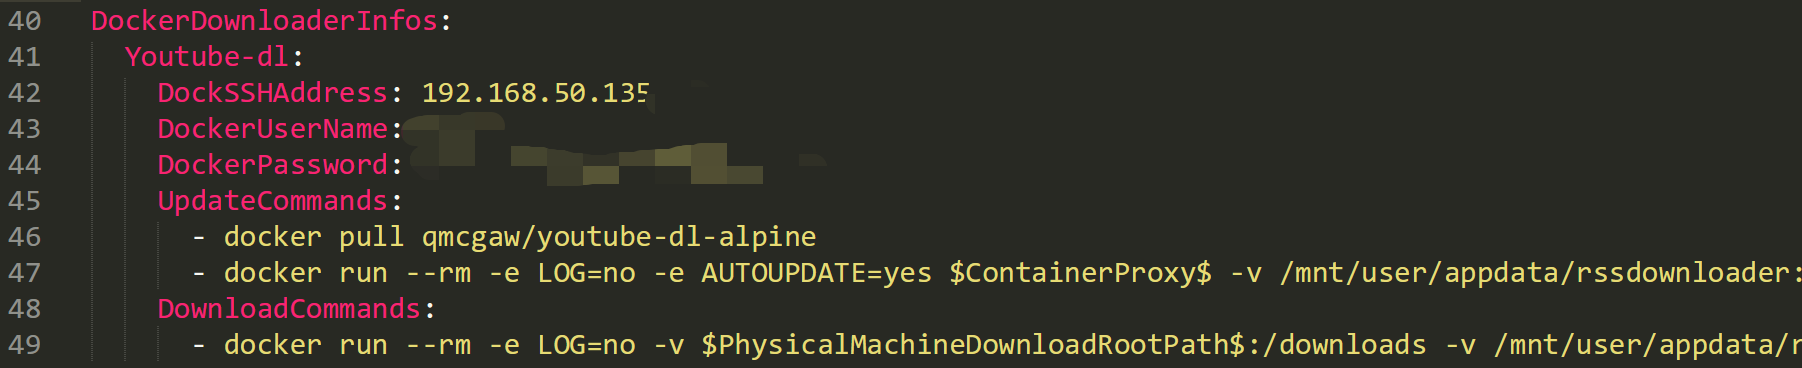
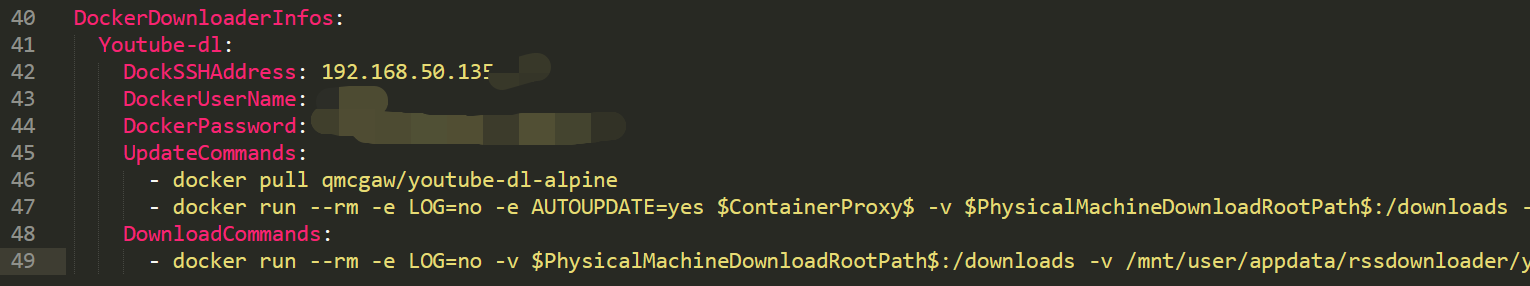
重构，统一、简化配置逻辑

diff --git a/downloadhelper.go b/downloadhelper.go
@@ -11,11 +11,12 @@ import (
 	"os"
 	"path"
 	"regexp"
+	"strconv"
 	"strings"
 	"time"
 )
 
-func UpdateDockerDownloader(configs model.Configs, dockerDownloaderInfo model.DockerDownloaderInfo) (string, error) {
+func UpdateDockerDownloader(configs model.Configs, downloadRoot string, dockerDownloaderInfo model.DockerDownloaderInfo) (string, error) {
 
 	var err error
 	config := &ssh.ClientConfig{
@@ -39,9 +40,11 @@ func UpdateDockerDownloader(configs model.Configs, dockerDownloaderInfo model.Do
 	assemblyCommand := ""
 	for _, oneCommand := range dockerDownloaderInfo.UpdateCommands {
 		// 替换关键信息
-		tmpCommand := oneCommand
+		tmpCommand := strings.ReplaceAll(oneCommand, ConstPhysicalmachinedownloadrootpath, downloadRoot)
 		ContainerProxy := "-e HTTP_PROXY=" + configs.DownloadHttpProxy
 		tmpCommand = strings.ReplaceAll(tmpCommand, ConstContainerProxy, ContainerProxy)
+
+		tmpCommand = replaceOutSideAPPOrFolderLocation(tmpCommand, dockerDownloaderInfo)
 
 		assemblyCommand += tmpCommand
 		assemblyCommand += ";"
@@ -83,13 +86,15 @@ func OneDownload(nowFileName, downloadURL string, downloadInfo model.DownloadInf
 		nowDesPath := path.Join(downloadInfo.DownloadRoot, downloadInfo.FolderName)
 		tmpCommand := strings.ReplaceAll(oneCommand, ConstPhysicalmachinedownloadrootpath, nowDesPath)
 
-		httpAdd := "--proxy=" + downloadInfo.DownloadHttpProxy
+		httpAdd := downloadInfo.DownloadHttpProxy
 		if downloadInfo.UseProxy == false {
 			httpAdd = ""
 		}
 		tmpCommand = strings.ReplaceAll(tmpCommand, ConstHttpadd, httpAdd)
 		tmpCommand = strings.ReplaceAll(tmpCommand, ConstDownloadurl, downloadURL)
 		tmpCommand = strings.ReplaceAll(tmpCommand, ConstNowfilename, nowFileName)
+
+		tmpCommand = replaceOutSideAPPOrFolderLocation(tmpCommand, dockerDownloaderInfo)
 
 		assemblyCommand += tmpCommand
 		assemblyCommand += ";"
@@ -107,9 +112,18 @@ func MainDownloader(configs model.Configs, rssProxyInfos model.RSSProxyInfos, bi
 
 	// 先进行 downloader 的统一更新
 	log.Infoln("Docker Downloader Update Start")
+
+	updateTmpDownloadRoot := ""
+	if rssProxyInfos.DefaultDownloadRoot != "" {
+		updateTmpDownloadRoot = rssProxyInfos.DefaultDownloadRoot
+	}
+	if biliBiliInfos.DefaultDownloadRoot != "" {
+		updateTmpDownloadRoot = biliBiliInfos.DefaultDownloadRoot
+	}
+
 	for _, dockerDownloaderInfo := range dockerDownloaderInfos {
 		log.Infoln("Update Docker Downloader:", dockerDownloaderInfo.Name, "Start")
-		outstring, err := UpdateDockerDownloader(configs, dockerDownloaderInfo)
+		outstring, err := UpdateDockerDownloader(configs, updateTmpDownloadRoot, dockerDownloaderInfo)
 		if err != nil {
 			log.Errorln("UpdateDockerDownloader OutString:", outstring)
 			log.Errorln("UpdateDockerDownloader:", err)
@@ -119,15 +133,17 @@ func MainDownloader(configs model.Configs, rssProxyInfos model.RSSProxyInfos, bi
 	}
 	log.Infoln("Docker Downloader Update End")
 
-	log.Infoln("Download RSS From RSSProxyInfos")
+	log.Infoln("Download RSS From RSSProxyInfos Start")
 	for _, oneRSSInfos := range rssProxyInfos.RSSInfos {
 		DownloadFromOneFeed(configs, oneRSSInfos)
 	}
+	log.Infoln("Download RSS From RSSProxyInfos End")
 
-	log.Infoln("Download RSS From BiliBiliInfos")
+	log.Infoln("Download RSS From BiliBiliInfos Start")
 	for _, oneBiliBiliUserInfos := range biliBiliInfos.BiliBiliUserInfos {
 		DownloadFromOneFeed(configs, oneBiliBiliUserInfos)
 	}
+	log.Infoln("Download RSS From BiliBiliInfos End")
 }
 
 func SelectDownloadInfo(rssInfo interface{}) (model.DownloadInfo, error) {
@@ -252,9 +268,20 @@ func StartDownload(item *gofeed.Item, downloadInfo model.DownloadInfo) {
 	log.Infoln("Download", nowVideoName, "End")
 }
 
+// 替换 OutSideAPPOrFolderLocation
+func replaceOutSideAPPOrFolderLocation(tmpCommand string, dockerDownloaderInfo model.DockerDownloaderInfo) string {
+	for index, one := range dockerDownloaderInfo.OutSideAPPOrFolderLocation {
+		nowReplaceKeyWord := strings.ReplaceAll(ConstOutSideAPPOrFolderLocation, "n$", "n" + strconv.Itoa(index) + "$")
+		tmpCommand = strings.ReplaceAll(tmpCommand, nowReplaceKeyWord, one)
+	}
+
+	return tmpCommand
+}
+
 const ConstYoutudlfileextension = ".part"
 const ConstPhysicalmachinedownloadrootpath = "$PhysicalMachineDownloadRootPath$"
 const ConstHttpadd = "$httpadd$"
 const ConstContainerProxy = "$ContainerProxy$"
 const ConstDownloadurl = "$downloadURL$"
 const ConstNowfilename = "$nowFileName$"
+const ConstOutSideAPPOrFolderLocation = "$OutSideAPPOrFolderLocation$"

diff --git a/config.go b/config.go
@@ -101,6 +101,7 @@ func ViperConfig2Cache(config *viper.Viper, configs *model.Configs,
 		downloaderInfo.Name = k
 		downloaderInfo.UpdateCommands = config.GetStringSlice("DockerDownloaderInfos."+ k +".UpdateCommands")
 		downloaderInfo.DownloadCommands = config.GetStringSlice("DockerDownloaderInfos."+ k +".DownloadCommands")
+		downloaderInfo.OutSideAPPOrFolderLocation = config.GetStringSlice("DockerDownloaderInfos."+ k +".OutSideAPPOrFolderLocation")
 		dockerDownloaderInfos[k] = downloaderInfo
 	}
 	// ------------------------------------------------------------

diff --git a/README.md b/README.md
@@ -1,3 +1,43 @@
+- [RSSDownloader](#rssdownloader)
+  * [Why？](#why-)
+  * [目的](#--)
+  * [特性](#--)
+  * [程序设计思路](#------)
+    + [为什么会出现 RSSProxy 以及两个 RSSHub？](#-------rssproxy------rsshub-)
+    + [为何下载部分要分开使用额外的 docker 容器？](#---------------docker----)
+  * [如何使用](#----)
+    + [RSSProxy 设置](#rssproxy---)
+    + [RSSDownloader 设置](#rssdownloader---)
+      - [基础配置](#----)
+        * [ListenPort](#listenport)
+        * [DownloadHttpProxy](#downloadhttpproxy)
+        * [RSSHubAddress](#rsshubaddress)
+        * [RSSProxyAddress](#rssproxyaddress)
+        * [ReadRSSTimeOut](#readrsstimeout)
+        * [EveryTime](#everytime)
+      - [RSSProxyInfos 设置](#rssproxyinfos---)
+        * [DefaultDownloaderName](#defaultdownloadername)
+        * [DefaultDownloadRoot](#defaultdownloadroot)
+        * [DefaultUseProxy](#defaultuseproxy)
+        * [RSSInfos](#rssinfos)
+      - [BiliBiliInfos 设置](#bilibiliinfos---)
+        * [DefaultDownloaderName](#defaultdownloadername-1)
+        * [DefaultDownloadRoot](#defaultdownloadroot-1)
+        * [DefaultUseProxy](#defaultuseproxy-1)
+        * [BiliBiliUserInfos](#bilibiliuserinfos)
+      - [DockerDownloaderInfos 设置](#dockerdownloaderinfos---)
+        * [ContainerProxy](#containerproxy)
+        * [PhysicalMachineDownloadRootPath](#physicalmachinedownloadrootpath)
+        * [OutSideAPPOrFolderLocation](#outsideapporfolderlocation)
+        * [httpadd](#httpadd)
+        * [downloadURL](#downloadurl)
+        * [nowFileName](#nowfilename)
+    + [Docker 部署](#docker---)
+  * [项目规划、进度](#-------)
+  * [感谢](#--)
+
+<small><i><a href='http://ecotrust-canada.github.io/markdown-toc/'>Table of contents generated with markdown-toc</a></i></small>
+
 # RSSDownloader
 
 ## Why？
@@ -86,6 +126,8 @@ RSSHub 的使用请去看对应的官网文档。
 ### RSSDownloader 设置
 
 #### 基础配置
+
+基本的配置信息如下图：
 
 ![RSSDownloader-Setting](Pics/RSSDownloader-Setting.png)
 
@@ -178,12 +220,93 @@ RSSProxy 的地址
 这里的 Key 是 Youtube-dl，上面的设置使用默认下载器的时候用到了。
 
 * DockSSHAddress：因为使用的是 SSH 去启动物理机的 docker 的，所以需要设置物理机的 SSH 连接
+
 * DockerUserName：有 docker 权限的账户，且你的下载地址也得有对应的权限
+
 * DockerPassword：密码
+
 * UpdateCommands：连接 SSH 执行的更新用的命令，为了更新你的下载器
+
 * DownloadCommands：下载器 docker 使用的命令
 
+* OutSideAPPOrFolderLocation：这里可以动态的指定多个需要外部映射可执行程序或者是文件夹路径。
+
 这里的设置用到的 $xxx$ 的变量是 RSSDownloader 使用的内置变量，不要改。
+
+注意，这里设置 docker 的 name 为 youtube-dl-runner，是为了，如果本程序故障的时候，重复启动的时候，如果发现上一个 docker 下载器启动了没有推出就不重复启动了，不然会出问题。
+
+**有几个特殊的内置字段需要注意下**：
+
+##### ContainerProxy
+
+这个与 DownloadHttpProxy 一致，会被替换，一般是为了 docker 内程序更新使用的，因为国内嘛，你懂。
+
+##### PhysicalMachineDownloadRootPath
+
+跟相应资源的 DefaultDownloadRoot 一致，会自动替换。
+
+##### OutSideAPPOrFolderLocation
+
+这个可以设置多个值，然后替换的时候是以每一个 command 中，指定对应的顺序。举例：
+
+设置了：
+
+```
+OutSideAPPOrFolderLocation:
+	- /mnt/user/appdata/rssdownloader/abc
+	- /mnt/user/appdata/rssdownloader/haha
+```
+
+然后执行的命令有：
+
+```
+- docker run --rm -v $OutSideAPPOrFolderLocation0$:/downloads -v $OutSideAPPOrFolderLocation1$:/usr/local/bin/youtube-dl qmcgaw/youtube-dl-alpine
+```
+
+那么对应的：
+
+* $OutSideAPPOrFolderLocation0$ = /mnt/user/appdata/rssdownloader/abc
+* $OutSideAPPOrFolderLocation1$ = /mnt/user/appdata/rssdownloader/haha
+
+如果执行的命令是：
+
+```
+- docker run --rm -v $OutSideAPPOrFolderLocation1$:/downloads -v $OutSideAPPOrFolderLocation0$:/usr/local/bin/youtube-dl qmcgaw/youtube-dl-alpine
+```
+
+那么其实对应的值也**一样**的，只不过在命令中换了个位置。
+
+##### httpadd
+
+这个是 youtube-dl 的代理设置，这个与 DownloadHttpProxy 一致，会被替换，一般是为了 docker 内程序更新使用的，因为国内嘛，你懂。
+
+##### downloadURL
+
+需要下载的资源的 URL，这个是 RSS 中解析出来的，无需改动。
+
+##### nowFileName
+
+需要将下载的资源重命名为什么名称，不包含后缀名，因为会有对应的下载程序决定。
+
+这里默认是 **2021-02-06_VideoTitle** 这样的格式。无需修改。
+
+注意，这里一定要用这个命名的格式，不然前面的检测是否下载过的逻辑会出问题，虽然问题不大，正常会有下载程序判断是否下载过了会跳过。
+
+### Docker 部署
+
+参考以下的 docker-compose
+
+```yaml
+version: "3"
+services:
+  service_rssdownloader:
+    image: allanpk716/rssdownloader:latest
+    container_name: rssdownloader
+    ports:
+      - 1202:1200
+    volumes:
+      - /mnt/user/appdata/rssdownloader/config.yaml:/app/config.yaml
+```
 
 ## 项目规划、进度
 
